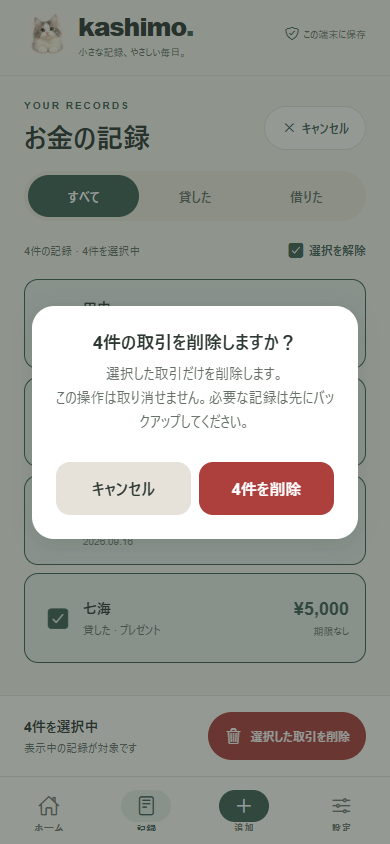
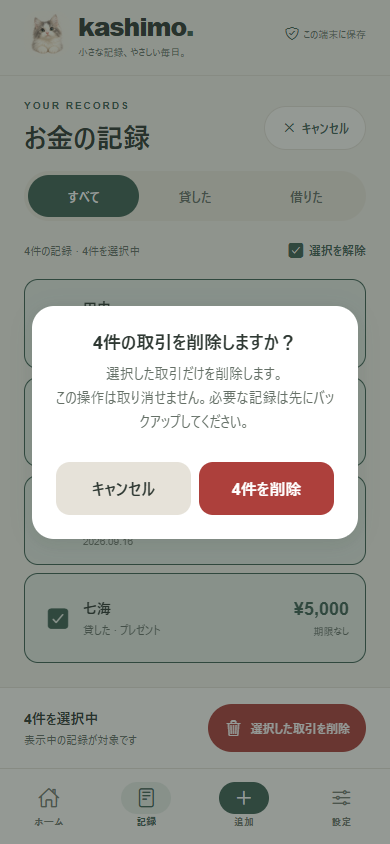
docs: refresh web screenshots with fully visible tab labels [skip ci]

diff --git a/assets/screenshots/v1.1.1/README.md b/assets/screenshots/v1.1.1/README.md
@@ -1,9 +1,9 @@
 # スクリーンショットの記録
 
 - バージョン: Kashimo 1.1.1 Preview。
-- 実行コード: 0c3c52f396d33f3fc56822b525dd2922ab589d99。
+- Android実行コード: 0c3c52f396d33f3fc56822b525dd2922ab589d99。
 - Android: [GitHub Actions 34704926819](https://github.com/specialMinority/kashimo/actions/runs/34704926819) の kashimo-android-tab-verification 内 after-*.png。API 35、1440×3120、560dpi、font_scale 1.0。初期データのないエミュレーター。画面画像は加工せずコピー。
-- Web: 最終1.1.1ビルドをChromeの390×844ビューポートで2026-09-13 KSTに再キャプチャ。新しい独立ブラウザー環境で架空の4件を用意し、一覧と削除確認を撮影。既存ユーザーのデータは使用・変更していない。
+- Web: 下部タブの文字切れを修正した1.1.1ビルド（`index-96cc8834d77307dc690a96489fc283c8.js`）をChromeの390×844ビューポートで2026-09-13 KSTに再キャプチャ。新しい独立ブラウザー環境で架空の4件を用意し、一覧と削除確認を撮影。既存ユーザーのデータは使用・変更していない。
 - Android実機・iPhone実機の撮影とは区別する。
 
 ## SHA-256
@@ -12,5 +12,5 @@
[7 lines of base64/hex data omitted]
